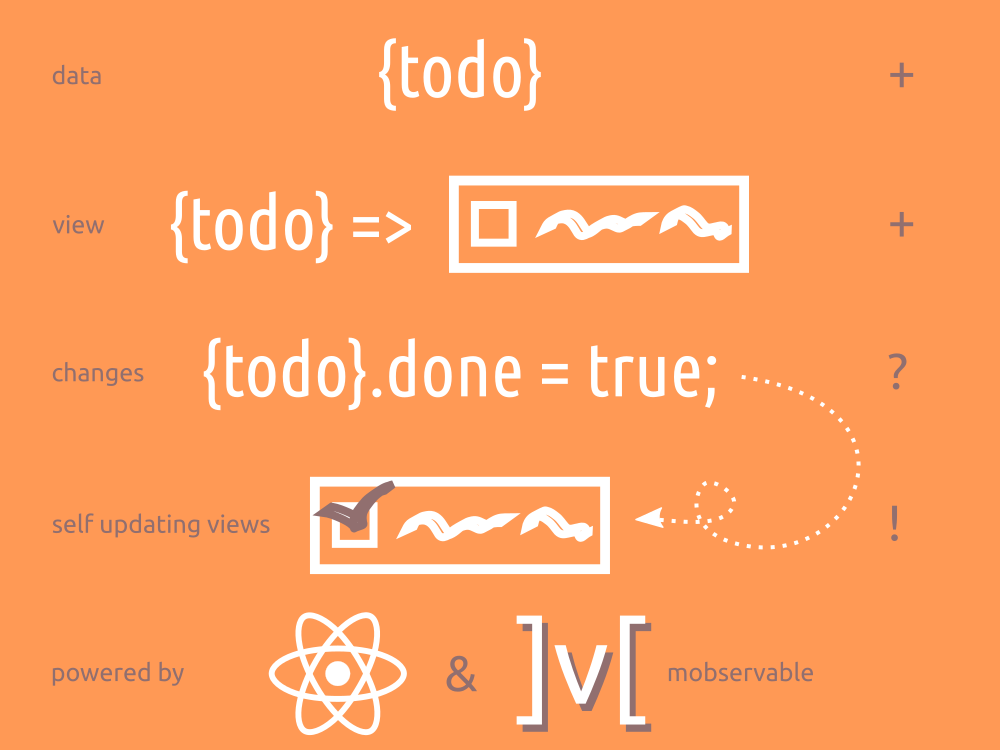
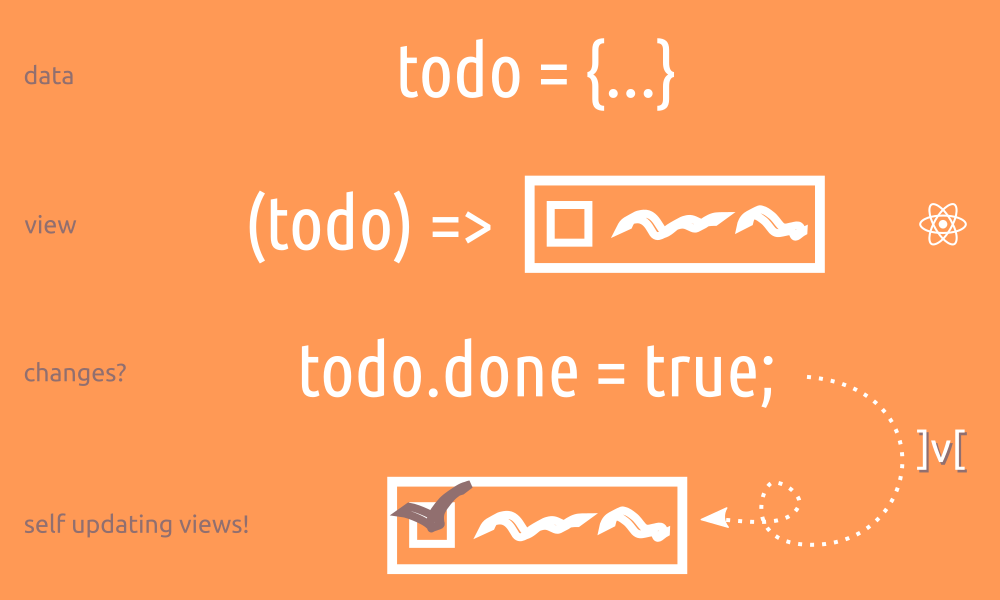
several clarifications

diff --git a/javascripts/bundle.js b/javascripts/bundle.js
@@ -54,7 +54,7 @@
 /******/ 	
 /******/ 	
 /******/ 	var hotApplyOnUpdate = true;
-/******/ 	var hotCurrentHash = "b7010f29bfe362a0f214"; // eslint-disable-line no-unused-vars
+/******/ 	var hotCurrentHash = "ae2b07e0eb6d3303c514"; // eslint-disable-line no-unused-vars
 /******/ 	var hotCurrentModuleData = {};
 /******/ 	var hotCurrentParents = []; // eslint-disable-line no-unused-vars
 /******/ 	
@@ -1928,7 +1928,7 @@
 /* 230 */
 /***/ function(module, exports, __webpack_require__) {
 
-	eval("/* WEBPACK VAR INJECTION */(function(module) {/* REACT HOT LOADER */ if (true) { (function () { var ReactHotAPI = __webpack_require__(217), RootInstanceProvider = __webpack_require__(59), ReactMount = __webpack_require__(61), React = __webpack_require__(115); module.makeHot = module.hot.data ? module.hot.data.makeHot : ReactHotAPI(function () { return RootInstanceProvider.getRootInstances(ReactMount); }, React); })(); } (function () {\n\n'use strict';\n\nObject.defineProperty(exports, '__esModule', {\n\tvalue: true\n});\n\nvar _createClass = (function () { function defineProperties(target, props) { for (var i = 0; i < props.length; i++) { var descriptor = props[i]; descriptor.enumerable = descriptor.enumerable || false; descriptor.configurable = true; if ('value' in descriptor) descriptor.writable = true; Object.defineProperty(target, descriptor.key, descriptor); } } return function (Constructor, protoProps, staticProps) { if (protoProps) defineProperties(Constructor.prototype, protoProps); if (staticProps) defineProperties(Constructor, staticProps); return Constructor; }; })();\n\nvar _get = function get(_x, _x2, _x3) { var _again = true; _function: while (_again) { var object = _x, property = _x2, receiver = _x3; desc = parent = getter = undefined; _again = false; if (object === null) object = Function.prototype; var desc = Object.getOwnPropertyDescriptor(object, property); if (desc === undefined) { var parent = Object.getPrototypeOf(object); if (parent === null) { return undefined; } else { _x = parent; _x2 = property; _x3 = receiver; _again = true; continue _function; } } else if ('value' in desc) { return desc.value; } else { var getter = desc.get; if (getter === undefined) { return undefined; } return getter.call(receiver); } } };\n\nfunction _interopRequireDefault(obj) { return obj && obj.__esModule ? obj : { 'default': obj }; }\n\nfunction _classCallCheck(instance, Constructor) { if (!(instance instanceof Constructor)) { throw new TypeError('Cannot call a class as a function'); } }\n\nfunction _inherits(subClass, superClass) { if (typeof superClass !== 'function' && superClass !== null) { throw new TypeError('Super expression must either be null or a function, not ' + typeof superClass); } subClass.prototype = Object.create(superClass && superClass.prototype, { constructor: { value: subClass, enumerable: false, writable: true, configurable: true } }); if (superClass) subClass.__proto__ = superClass; }\n\nvar _react = __webpack_require__(115);\n\nvar _react2 = _interopRequireDefault(_react);\n\nvar _todos = __webpack_require__(225);\n\nvar _mobservable = __webpack_require__(226);\n\n// React component that responds to changes in 'todos'\n\nvar TodoList = (function (_Component) {\n\t_inherits(TodoList, _Component);\n\n\tfunction TodoList() {\n\t\t_classCallCheck(this, _TodoList);\n\n\t\t_get(Object.getPrototypeOf(_TodoList.prototype), 'constructor', this).apply(this, arguments);\n\t}\n\n\t_createClass(TodoList, [{\n\t\tkey: 'render',\n\t\tvalue: function render() {\n\t\t\tvar todos = this.props.todos;\n\t\t\treturn _react2['default'].createElement(\n\t\t\t\t'div',\n\t\t\t\tnull,\n\t\t\t\t_react2['default'].createElement(\n\t\t\t\t\t'ul',\n\t\t\t\t\tnull,\n\t\t\t\t\tthis.props.todos.map(function (todo, idx) {\n\t\t\t\t\t\treturn _react2['default'].createElement(TodoView, { todo: todo, key: idx });\n\t\t\t\t\t}),\n\t\t\t\t\ttodos.isLoading ? _react2['default'].createElement(\n\t\t\t\t\t\t'li',\n\t\t\t\t\t\tnull,\n\t\t\t\t\t\t'Loading more items...'\n\t\t\t\t\t) : null\n\t\t\t\t),\n\t\t\t\t_react2['default'].createElement('hr', null),\n\t\t\t\t'Completed ',\n\t\t\t\ttodos.filter(function (todo) {\n\t\t\t\t\treturn todo.completed;\n\t\t\t\t}).length,\n\t\t\t\t' of ',\n\t\t\t\ttodos.length,\n\t\t\t\t' items.',\n\t\t\t\t_react2['default'].createElement('br', null),\n\t\t\t\t_react2['default'].createElement(\n\t\t\t\t\t'button',\n\t\t\t\t\t{ onClick: this.onNewTodo.bind(this) },\n\t\t\t\t\t'New Todo'\n\t\t\t\t),\n\t\t\t\t_react2['default'].createElement(\n\t\t\t\t\t'button',\n\t\t\t\t\t{ onClick: _todos.loadTodosAsync },\n\t\t\t\t\t'Load more...'\n\t\t\t\t)\n\t\t\t);\n\t\t}\n\t}, {\n\t\tkey: 'onNewTodo',\n\t\tvalue: function onNewTodo() {\n\t\t\t(0, _todos.addTodo)(prompt(\"Enter a new todo:\", \"Try mobservable at home!\"));\n\t\t}\n\t}]);\n\n\tvar _TodoList = TodoList;\n\tTodoList = (0, _mobservable.ObservingComponent)(TodoList) || TodoList;\n\treturn TodoList;\n})(_react.Component)\n\n// React component that responds to changes in its 'todo'\n;\n\nexports.TodoList = TodoList;\n\nvar TodoView = (function (_Component2) {\n\t_inherits(TodoView, _Component2);\n\n\tfunction TodoView() {\n\t\t_classCallCheck(this, _TodoView);\n\n\t\t_get(Object.getPrototypeOf(_TodoView.prototype), 'constructor', this).apply(this, arguments);\n\t}\n\n\t_createClass(TodoView, [{\n\t\tkey: 'render',\n\t\tvalue: function render() {\n\t\t\tvar todo = this.props.todo;\n\t\t\treturn _react2['default'].createElement(\n\t\t\t\t'li',\n\t\t\t\tnull,\n\t\t\t\t_react2['default'].createElement('input', { type: \"checkbox\", checked: todo.completed, onChange: this.onToggleCompleted.bind(this) }),\n\t\t\t\ttodo.title,\n\t\t\t\t\" \",\n\t\t\t\t_react2['default'].createElement(\n\t\t\t\t\t'a',\n\t\t\t\t\t{ href: \"#\", onClick: this.onEdit.bind(this) },\n\t\t\t\t\t'[edit]'\n\t\t\t\t),\n\t\t\t\t_react2['default'].createElement(\n\t\t\t\t\t'a',\n\t\t\t\t\t{ href: \"#\", onClick: this.onRemove.bind(this) },\n\t\t\t\t\t'[remove]'\n\t\t\t\t)\n\t\t\t);\n\t\t}\n\t}, {\n\t\tkey: 'onToggleCompleted',\n\t\tvalue: function onToggleCompleted() {\n\t\t\tthis.props.todo.completed = !this.props.todo.completed;\n\t\t}\n\t}, {\n\t\tkey: 'onEdit',\n\t\tvalue: function onEdit() {\n\t\t\tthis.props.todo.title = prompt('Todo:', this.props.todo.title);\n\t\t}\n\t}, {\n\t\tkey: 'onRemove',\n\t\tvalue: function onRemove() {\n\t\t\t(0, _todos.removeTodo)(this.props.todo);\n\t\t}\n\t}]);\n\n\tvar _TodoView = TodoView;\n\tTodoView = (0, _mobservable.ObservingComponent)(TodoView) || TodoView;\n\treturn TodoView;\n})(_react.Component);\n\n/* REACT HOT LOADER */ }).call(this); if (true) { (function () { module.hot.dispose(function (data) { data.makeHot = module.makeHot; }); if (module.exports && module.makeHot) { var makeExportsHot = __webpack_require__(227), foundReactClasses = false; if (makeExportsHot(module, __webpack_require__(115))) { foundReactClasses = true; } var shouldAcceptModule = true && foundReactClasses; if (shouldAcceptModule) { module.hot.accept(function (err) { if (err) { console.error(\"Cannot not apply hot update to \" + \"components.js\" + \": \" + err.message); } }); } } })(); }\n/* WEBPACK VAR INJECTION */}.call(exports, __webpack_require__(34)(module)))\n\n/*****************\n ** WEBPACK FOOTER\n ** ./src/components.js\n ** module id = 230\n ** module chunks = 0\n **/\n//# sourceURL=webpack:///./src/components.js?");
+	eval("/* WEBPACK VAR INJECTION */(function(module) {/* REACT HOT LOADER */ if (true) { (function () { var ReactHotAPI = __webpack_require__(217), RootInstanceProvider = __webpack_require__(59), ReactMount = __webpack_require__(61), React = __webpack_require__(115); module.makeHot = module.hot.data ? module.hot.data.makeHot : ReactHotAPI(function () { return RootInstanceProvider.getRootInstances(ReactMount); }, React); })(); } (function () {\n\n'use strict';\n\nObject.defineProperty(exports, '__esModule', {\n\tvalue: true\n});\n\nvar _createClass = (function () { function defineProperties(target, props) { for (var i = 0; i < props.length; i++) { var descriptor = props[i]; descriptor.enumerable = descriptor.enumerable || false; descriptor.configurable = true; if ('value' in descriptor) descriptor.writable = true; Object.defineProperty(target, descriptor.key, descriptor); } } return function (Constructor, protoProps, staticProps) { if (protoProps) defineProperties(Constructor.prototype, protoProps); if (staticProps) defineProperties(Constructor, staticProps); return Constructor; }; })();\n\nvar _get = function get(_x, _x2, _x3) { var _again = true; _function: while (_again) { var object = _x, property = _x2, receiver = _x3; desc = parent = getter = undefined; _again = false; if (object === null) object = Function.prototype; var desc = Object.getOwnPropertyDescriptor(object, property); if (desc === undefined) { var parent = Object.getPrototypeOf(object); if (parent === null) { return undefined; } else { _x = parent; _x2 = property; _x3 = receiver; _again = true; continue _function; } } else if ('value' in desc) { return desc.value; } else { var getter = desc.get; if (getter === undefined) { return undefined; } return getter.call(receiver); } } };\n\nfunction _interopRequireDefault(obj) { return obj && obj.__esModule ? obj : { 'default': obj }; }\n\nfunction _classCallCheck(instance, Constructor) { if (!(instance instanceof Constructor)) { throw new TypeError('Cannot call a class as a function'); } }\n\nfunction _inherits(subClass, superClass) { if (typeof superClass !== 'function' && superClass !== null) { throw new TypeError('Super expression must either be null or a function, not ' + typeof superClass); } subClass.prototype = Object.create(superClass && superClass.prototype, { constructor: { value: subClass, enumerable: false, writable: true, configurable: true } }); if (superClass) subClass.__proto__ = superClass; }\n\nvar _react = __webpack_require__(115);\n\nvar _react2 = _interopRequireDefault(_react);\n\nvar _todos = __webpack_require__(225);\n\nvar _mobservable = __webpack_require__(226);\n\n// React component that responds to changes in 'todos'\n\nvar TodoList = (function (_Component) {\n\t_inherits(TodoList, _Component);\n\n\tfunction TodoList() {\n\t\t_classCallCheck(this, _TodoList);\n\n\t\t_get(Object.getPrototypeOf(_TodoList.prototype), 'constructor', this).apply(this, arguments);\n\t}\n\n\t_createClass(TodoList, [{\n\t\tkey: 'render',\n\t\tvalue: function render() {\n\t\t\tvar todos = this.props.todos;\n\t\t\treturn _react2['default'].createElement(\n\t\t\t\t'div',\n\t\t\t\tnull,\n\t\t\t\t_react2['default'].createElement(\n\t\t\t\t\t'ul',\n\t\t\t\t\tnull,\n\t\t\t\t\tthis.props.todos.map(function (todo, idx) {\n\t\t\t\t\t\treturn _react2['default'].createElement(TodoView, { todo: todo, key: idx });\n\t\t\t\t\t}),\n\t\t\t\t\ttodos.isLoading ? _react2['default'].createElement(\n\t\t\t\t\t\t'li',\n\t\t\t\t\t\tnull,\n\t\t\t\t\t\t'Loading more items...'\n\t\t\t\t\t) : null\n\t\t\t\t),\n\t\t\t\t_react2['default'].createElement('hr', null),\n\t\t\t\t'Completed ',\n\t\t\t\ttodos.filter(function (todo) {\n\t\t\t\t\treturn todo.completed;\n\t\t\t\t}).length,\n\t\t\t\t' of ',\n\t\t\t\ttodos.length,\n\t\t\t\t' items.',\n\t\t\t\t_react2['default'].createElement('br', null),\n\t\t\t\t_react2['default'].createElement(\n\t\t\t\t\t'button',\n\t\t\t\t\t{ onClick: this.onNewTodo.bind(this) },\n\t\t\t\t\t'New Todo'\n\t\t\t\t),\n\t\t\t\t_react2['default'].createElement(\n\t\t\t\t\t'button',\n\t\t\t\t\t{ onClick: _todos.loadTodosAsync },\n\t\t\t\t\t'Load more...'\n\t\t\t\t)\n\t\t\t);\n\t\t}\n\t}, {\n\t\tkey: 'onNewTodo',\n\t\tvalue: function onNewTodo() {\n\t\t\t(0, _todos.addTodo)(prompt(\"Enter a new todo:\", \"Try mobservable at home!\"));\n\t\t}\n\t}]);\n\n\tvar _TodoList = TodoList;\n\tTodoList = (0, _mobservable.ObservingComponent)(TodoList) || TodoList;\n\treturn TodoList;\n})(_react.Component)\n\n// React component that responds to changes in its 'todo'\n;\n\nexports.TodoList = TodoList;\n\nvar TodoView = (function (_Component2) {\n\t_inherits(TodoView, _Component2);\n\n\tfunction TodoView() {\n\t\t_classCallCheck(this, _TodoView);\n\n\t\t_get(Object.getPrototypeOf(_TodoView.prototype), 'constructor', this).apply(this, arguments);\n\t}\n\n\t_createClass(TodoView, [{\n\t\tkey: 'render',\n\t\tvalue: function render() {\n\t\t\tvar todo = this.props.todo;\n\t\t\treturn _react2['default'].createElement(\n\t\t\t\t'li',\n\t\t\t\tnull,\n\t\t\t\t_react2['default'].createElement('input', { type: \"checkbox\", checked: todo.completed, onChange: this.onToggleCompleted.bind(this) }),\n\t\t\t\ttodo.title,\n\t\t\t\t\" \",\n\t\t\t\t_react2['default'].createElement(\n\t\t\t\t\t'a',\n\t\t\t\t\t{ href: \"#\", onClick: this.onEdit.bind(this) },\n\t\t\t\t\t'[edit]'\n\t\t\t\t),\n\t\t\t\t_react2['default'].createElement(\n\t\t\t\t\t'a',\n\t\t\t\t\t{ href: \"#\", onClick: this.onRemove.bind(this) },\n\t\t\t\t\t'[remove]'\n\t\t\t\t)\n\t\t\t);\n\t\t}\n\t}, {\n\t\tkey: 'onToggleCompleted',\n\t\tvalue: function onToggleCompleted() {\n\t\t\tthis.props.todo.completed = !this.props.todo.completed;\n\t\t}\n\t}, {\n\t\tkey: 'onEdit',\n\t\tvalue: function onEdit(e) {\n\t\t\te.preventDefault();\n\t\t\tthis.props.todo.title = prompt('Todo:', this.props.todo.title);\n\t\t}\n\t}, {\n\t\tkey: 'onRemove',\n\t\tvalue: function onRemove(e) {\n\t\t\te.preventDefault();\n\t\t\t(0, _todos.removeTodo)(this.props.todo);\n\t\t}\n\t}]);\n\n\tvar _TodoView = TodoView;\n\tTodoView = (0, _mobservable.ObservingComponent)(TodoView) || TodoView;\n\treturn TodoView;\n})(_react.Component);\n\n/* REACT HOT LOADER */ }).call(this); if (true) { (function () { module.hot.dispose(function (data) { data.makeHot = module.makeHot; }); if (module.exports && module.makeHot) { var makeExportsHot = __webpack_require__(227), foundReactClasses = false; if (makeExportsHot(module, __webpack_require__(115))) { foundReactClasses = true; } var shouldAcceptModule = true && foundReactClasses; if (shouldAcceptModule) { module.hot.accept(function (err) { if (err) { console.error(\"Cannot not apply hot update to \" + \"components.js\" + \": \" + err.message); } }); } } })(); }\n/* WEBPACK VAR INJECTION */}.call(exports, __webpack_require__(34)(module)))\n\n/*****************\n ** WEBPACK FOOTER\n ** ./src/components.js\n ** module id = 230\n ** module chunks = 0\n **/\n//# sourceURL=webpack:///./src/components.js?");
 
 /***/ }
 /******/ ]);

diff --git a/index.html b/index.html
@@ -21,13 +21,13 @@
 
       <img src="images/mobservable.png" id="logo" />
       <h1 id="project_title">mobservable</h1>
-      <h2 id="project_tagline">unobtrusive library to create reactive data structures and self-updating view functions</h2>
+      <h2 id="project_tagline">unobtrusive library to make data structures reactive and create seamlessly self-updating view functions</h2>
     </header>
   </div>
 
   <div id="overview_content" class="outer">
     <div class="inner">
-      <img src="images/overview_nologo.png" id="overview_img" class="overview_step1"/>
+      <img src="images/overview.png" id="overview_img" class="overview_step1"/>
       <p style="color:#916f6f;font-size:0.8em;margin:-10px 0 0 0;padding-bottom:10px">(scroll down for a running demo)</p>
     </div>
   </div>
@@ -37,13 +37,14 @@
     <section id="main_content" class="inner">
 
       <table id="usps"><tr>
-        <td><h4>self updating view functions</h4>Declaratively define the relationships between your data and UI. Mobservable figures out when and where the UI should be updated.
+        <td><h4>seamlessly updating views</h4>
+          Create view functions that update automatically, synchronously, atomically and efficiently. No stale or intermediate values will ever be visible.
           </td>
-        <td><h4>reactive<br/>yet unobtrusive</h4>Work with reactive objects, classes and arrays as if they are plain javascript structures. Even if deeply nested or cyclic.</td>
+        <td><h4>reactive and unobtrusive data structures</h4>Work with reactive objects, classes and arrays as if they are plain javascript structures. Even if deeply nested or cyclic.</td>
       </tr><tr>
-        <td><h4>reactjs decorator</h4>Turn reactjs components into observers that automatically sideways load data for
+        <td><h4>reactjs decorator</h4>Turn reactjs components into reactive ones that automatically sideways load data for
           <a href="http://mendix.com/tech-blog/making-react-reactive-pursuit-high-performing-easily-maintainable-react-apps/" target="_blank">bleeding edge performance</a>.</td>
-        <td><h4>shines in large apps </h4>The library is battle tested and shines in large enterprise scale apps.</td>
+        <td><h4>shines in large apps</h4>Battle tested library that shines in large enterprise scale apps with complex data models.</td>
       </tr></table>
 
       <hr/>
@@ -133,11 +134,13 @@ mobservable.sideEffect(()<span class="pl-k"> =&gt;</span> {
         <span class="pl-v">this</span>.props.todo.completed <span class="pl-k">=</span> <span class="pl-k">!</span><span class="pl-v">this</span>.props.todo.completed;
     }
 
-    <span class="pl-en">onEdit</span>() {
+    <span class="pl-en">onEdit</span>(e) {
+        e.preventDefault();
         <span class="pl-v">this</span>.props.todo.<span class="pl-c1">title</span> <span class="pl-k">=</span> <span class="pl-c1">prompt</span>(<span class="pl-s"><span class="pl-pds">'</span>Todo:<span class="pl-pds">'</span></span>, <span class="pl-v">this</span>.props.todo.<span class="pl-c1">title</span>);
     }
 
-    <span class="pl-en">onRemove</span>() {
+    <span class="pl-en">onRemove</span>(e) {
+        e.preventDefault();
         removeTodo(<span class="pl-v">this</span>.props.todo);
     }
 }</pre></div>
